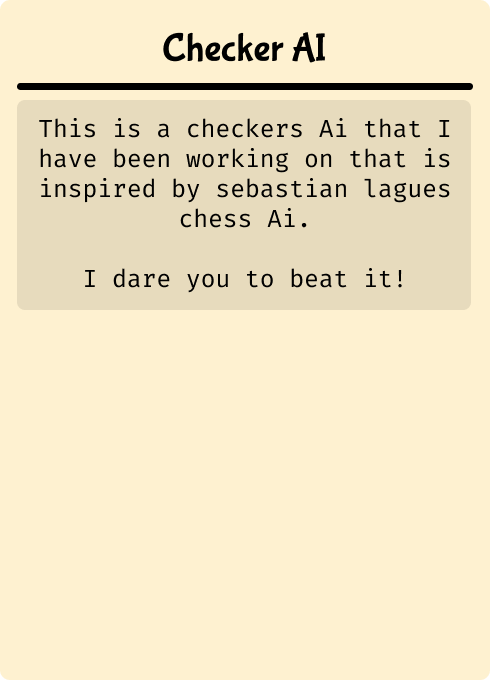
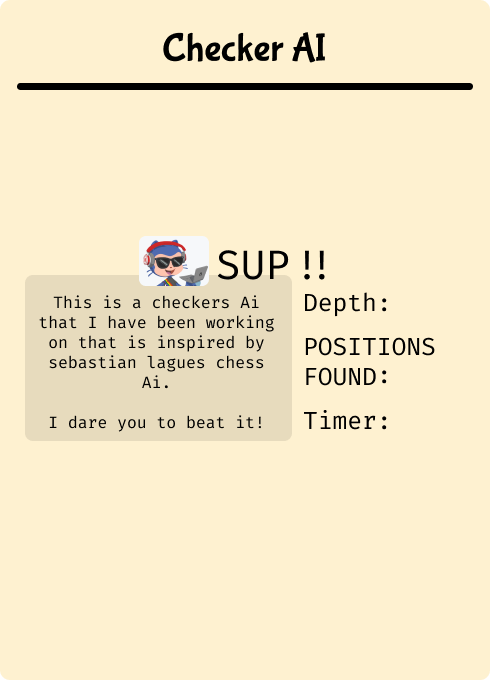
New Look for the Game

diff --git a/checkers.py b/checkers.py
@@ -397,10 +397,10 @@ while True:
         state_surf = TEXT_FONT.render(side, False, (0, 0, 0))
         msg_surf = TEXT_FONT.render(state_text, False, (0, 0, 0))
 
-        screen.blit(state_surf, (915, 362))
-        screen.blit(msg_surf, (915, 392))
+        screen.blit(state_surf, (915, 147))
+        screen.blit(msg_surf, (915, 177))
 
-        screen.blit(get_piece_image(game.board.winner, True), (789, 340))
+        screen.blit(get_piece_image(game.board.winner, True), (789, 125))
 
     else:
         side = "RED" if game.board.current_side == PieceTypes.RED else "BLUE"
@@ -415,12 +415,12 @@ while True:
         state_surf = TEXT_FONT.render(state_text, False, (0, 0, 0))
         msg_surf = TEXT_FONT.render(msg, False, (0, 0, 0))
 
-        screen.blit(state_surf, (915, 362))
-        screen.blit(msg_surf, (915, 392))
+        screen.blit(state_surf, (915, 147))
+        screen.blit(msg_surf, (915, 177))
 
         screen.blit(
             get_piece_image(game.board.current_side.value[0], True),
-            (789, 340),
+            (789, 125),
         )
 
     pygame.display.update()
